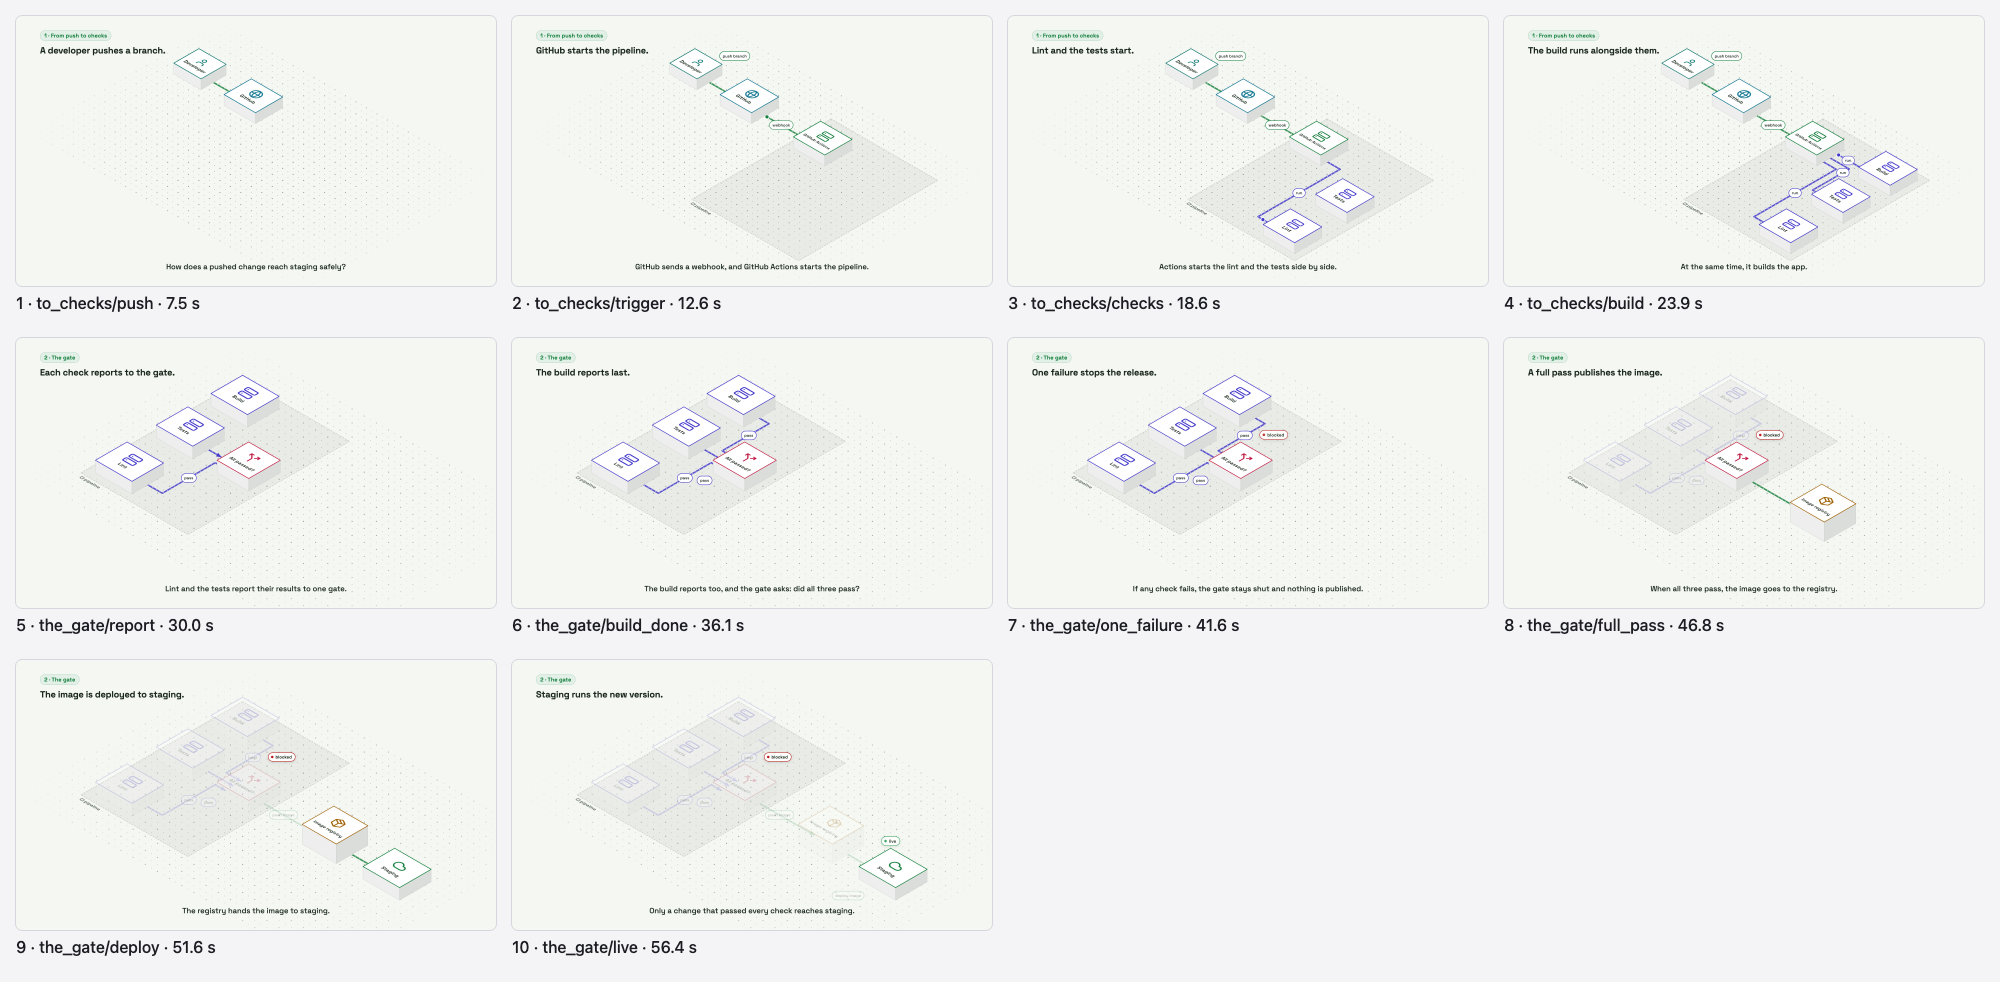
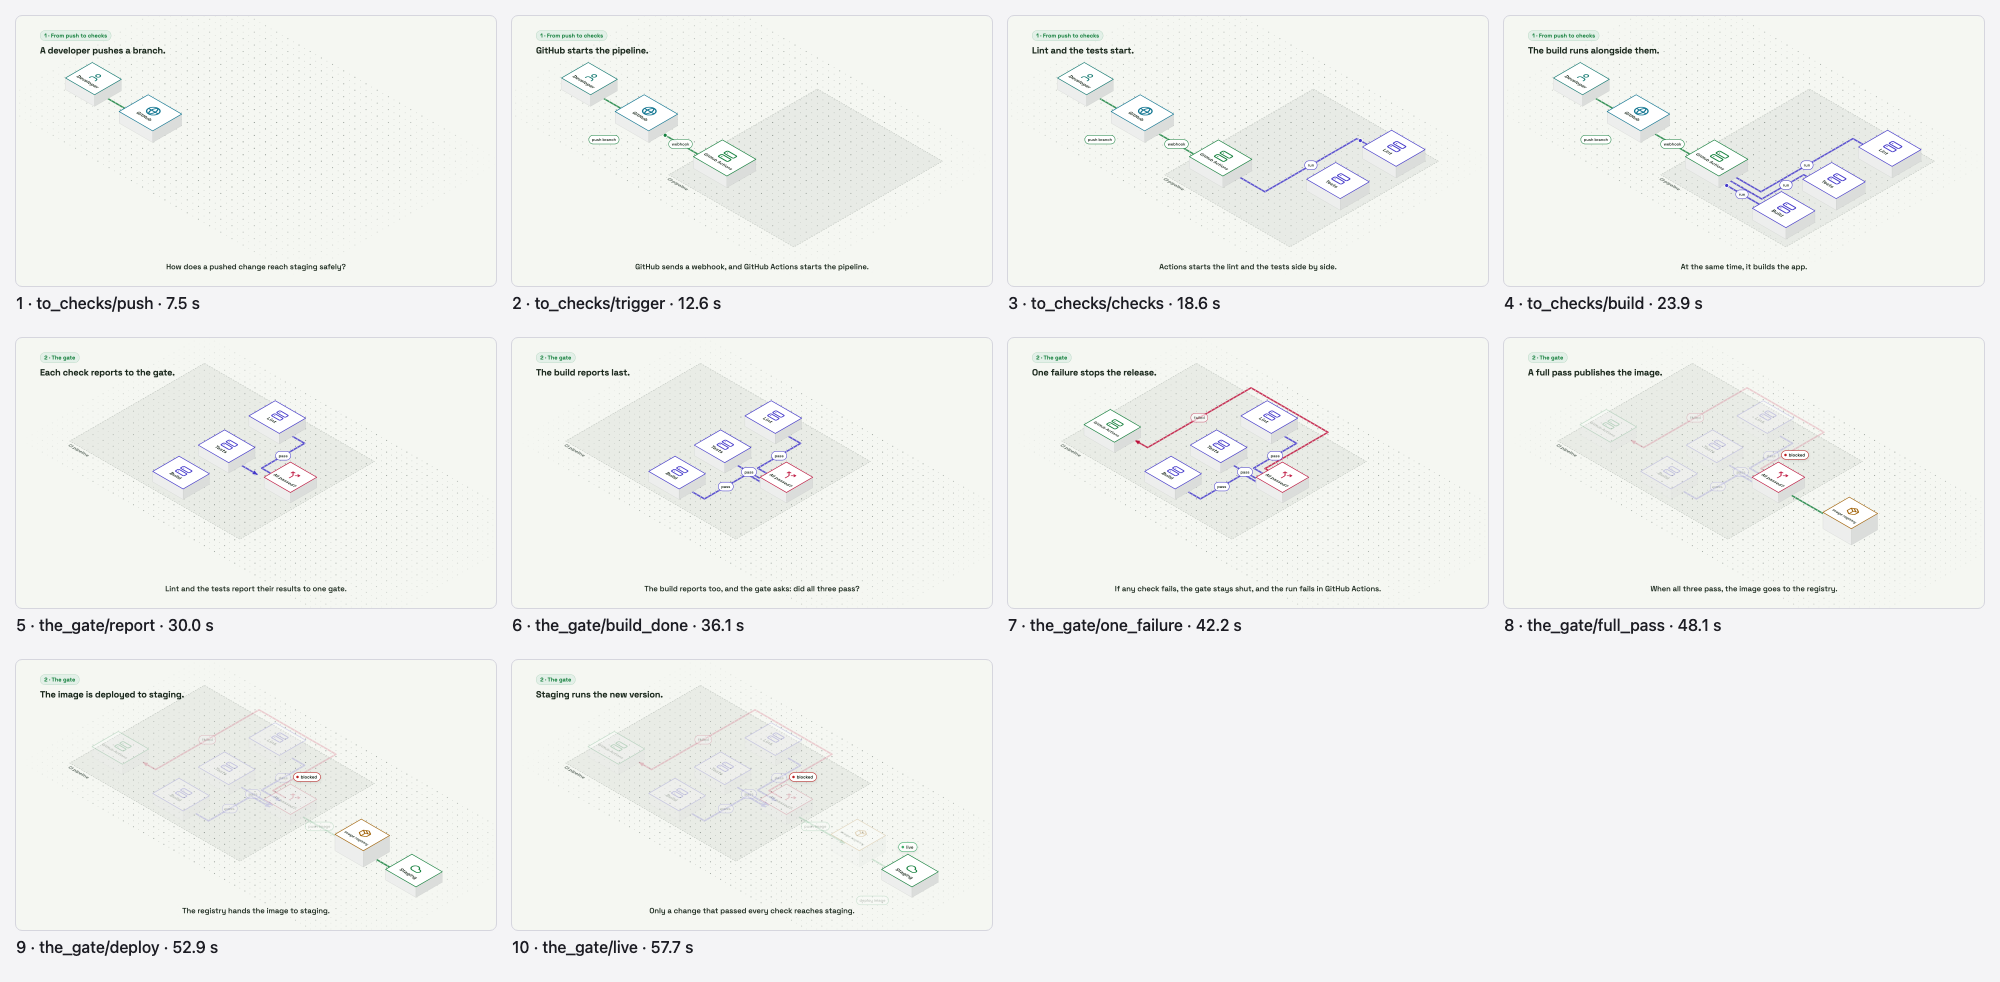
fix(examples): a real failure branch, briefs that fit, colours on all three parts [6.2]
The CI pipeline example now has the failure branch SPEC asks for: the gate
reports a failed check back to GitHub Actions, in red. Its brief takes the
problem shape its script follows. Checkout colours a node and its area as
well as edges. The examples test loads each project once, and the SPEC
lines say what each example shows.

oauth-login's beat "code" line changed in the first commit: the new
examples test found it was said faster than its captions can be read.
checks-chat.test.ts writes the old line into its own copy instead.

diff --git a/src/render/examples.test.ts b/src/render/examples.test.ts
@@ -16,29 +16,26 @@ const json = (dir: string, file: string): unknown =>
   JSON.parse(readFileSync(join(EXAMPLES, dir, file), "utf8"));
 
 describe("the examples (6.2)", () => {
-  it("are the three the roadmap names", () => {
+  it("are the three SPEC names", () => {
     expect(examples.sort()).toEqual(["checkout", "ci-pipeline", "oauth-login"]);
   });
 
-  it.each(examples)("%s is a valid project, with its brief and its logos", async (name) => {
-    const project = await loadProject(join(EXAMPLES, name));
-    expect(project.ok ? [] : formatErrors(project.errors)).toEqual([]);
-    expect(parseProject(json(name, "project.json")).ok).toBe(true);
-    if (existsSync(join(EXAMPLES, name, "brief.json")))
-      expect(parseWith(BriefSchema, json(name, "brief.json")).ok).toBe(true);
-    const logo = project.ok ? project.value.config.logo : undefined;
-    for (const file of [logo?.light, logo?.dark].filter((f) => f !== undefined))
-      expect(existsSync(join(EXAMPLES, name, "assets", file))).toBe(true);
-  });
-
+  // Loading checks every file against its schema and the others, and that each logo it names is in assets/.
   it.each(examples)(
-    "%s tells its story with nothing to fix: the story checks, and words read and said in time",
+    "%s is a valid project with nothing to fix by the story checks or words read and said in time",
     async (name) => {
       const project = await loadProject(join(EXAMPLES, name));
       if (!project.ok) throw new Error(formatErrors(project.errors).join("\n"));
+      expect(parseProject(json(name, "project.json")).ok).toBe(true);
       // Timed by the estimated voice, as a fresh checkout without the voice model times it.
       const plan = projectBeats(project.value);
       expect(formatErrors(scriptProblems(plan, project.value.storyboard))).toEqual([]);
     },
   );
+
+  // A brief is optional (SPEC, Brief); the two drafted examples keep the one their script followed.
+  it.each(["ci-pipeline", "checkout"])("%s keeps the brief its script follows", (name) => {
+    expect(existsSync(join(EXAMPLES, name, "brief.json"))).toBe(true);
+    expect(parseWith(BriefSchema, json(name, "brief.json")).ok).toBe(true);
+  });
 });

diff --git a/src/llm/recordings.ts b/src/llm/recordings.ts
@@ -44,7 +44,7 @@ const briefCall = {
   schema: BriefSchema,
 } satisfies StructuredCall<typeof BriefSchema>;
 
-/** A line of the oauth-login example's beat "code" that goes by too fast to read: the example's own until 6.2 made it plainer. */
+/** A line for the oauth-login example's beat "code" that goes by too fast to read: the text it had before 6.2. */
 export const RUSHED_LINE = {
   kind: "words",
   beat: "code",

diff --git a/SPEC.md b/SPEC.md
@@ -898,16 +898,16 @@ Three approved example projects in `examples/`, which render without an API
 key and also serve as test fixtures:
 
 - **OAuth login**: browser, app, identity provider, token exchange.
-- **CI pipeline**: push, lint, tests and build side by side, a gate that
-  stops the release when one fails, then the registry and staging. Dark,
-  with a camera on each scene.
+- **CI pipeline**: push, lint, tests and build side by side, a gate with a
+  failure branch back to the pipeline, then the registry and staging. Dark,
+  with a camera on its second scene.
 - **Checkout**: shopper, order service, stock held before the payment
   provider takes the money, confirmation email.
 
-Each has its own palette and font, its own colours for some nodes and
-edges, title and end cards and a logo, so the three show the range. The
-CI pipeline and checkout examples began as the assistant's recorded
-drafts, edited by hand.
+OAuth login uses the default look. The CI pipeline and checkout examples
+each have their own palette and font, their own colours for some nodes,
+edges and areas, title and end cards, a logo and a brief, so the three show
+the range; they began as the assistant's recorded drafts, edited by hand.
 
 ## Milestones
 
